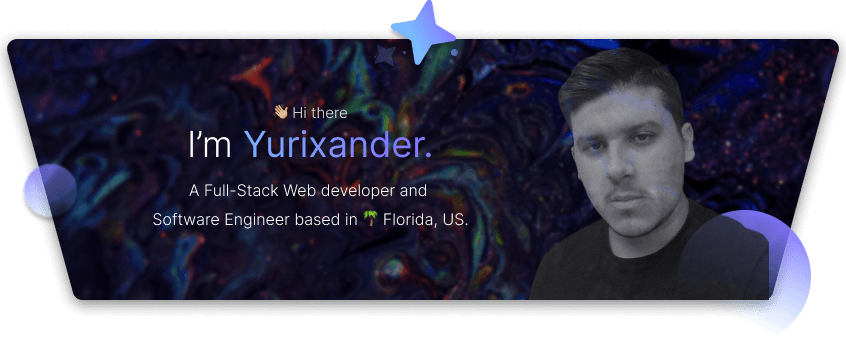
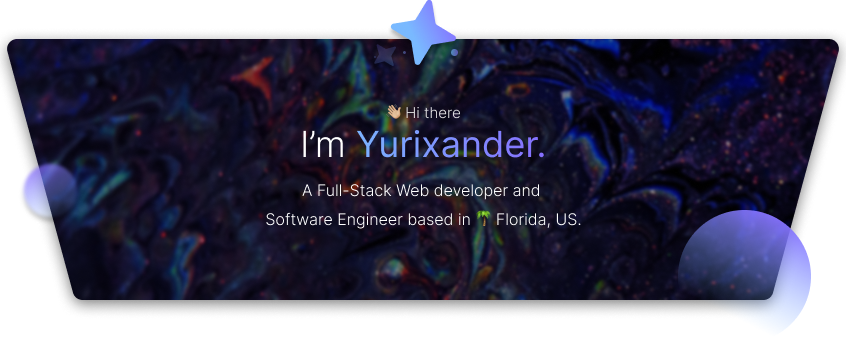
Remove headshot, add Mirage to project list

diff --git a/README.md b/README.md
@@ -36,6 +36,9 @@
 <a href="https://github.com/codex-tooling">
   <img width="80" src="./assets/codex-tooling-org-logo.png" />
 </a>
+<a href="https://github.com/yurixander/mirage">
+  <img width="80" src="./assets/mirage-project-logo.png" />
+</a>
 
 <div align="center">
   <strong><img width="100" src="./assets/handshake.png" /><br />I am currently open to work</strong><br />
